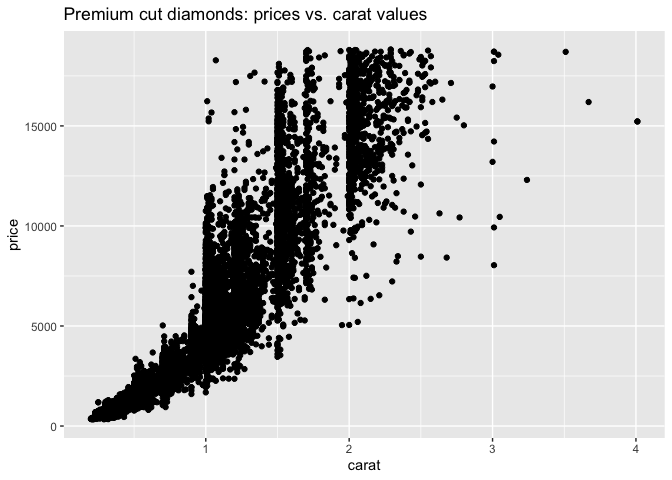
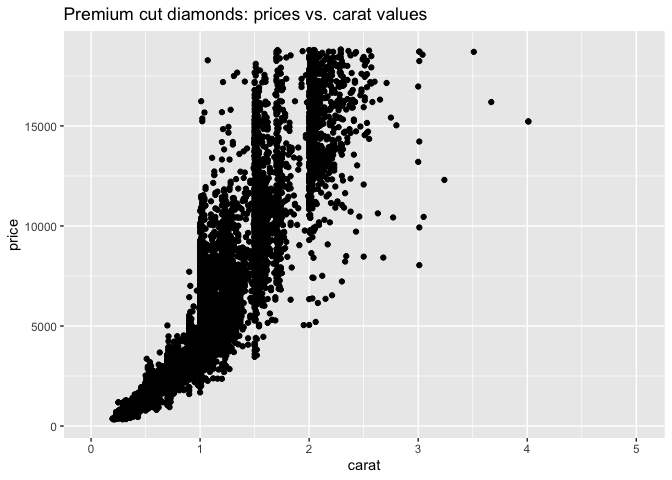
Diamonds challenge 1.2

diff --git a/c00-diamonds-assignment.md b/c00-diamonds-assignment.md
@@ -154,8 +154,10 @@ But now,
     lower-carat diamonds, and poorer quality cuts dominate the
     higher-carat diamonds.
 
-Additionally, I have questions\! First, am I correct that there is
-clustering around integer carat values, and around 1.5 carats?
+Additionally, I have questions\!
+
+**First, am I correct that there is clustering around integer carat
+values, and around 1.5 carats?**
 
 ``` r
 carat_vector <- diamonds$carat
@@ -164,12 +166,15 @@ hist(x = carat_vector, breaks = 20)
 
 ![](c00-diamonds-assignment_files/figure-gfm/unnamed-chunk-1-1.png)<!-- -->
 
-  - This confirms my suspicion about the clustering of diamonds around
-    carat values of 1, 1.5, and 2, but the resolution is a bit low (and
-    I may not be doing my histogram correctly, but I can’t seem to get
-    more than 4 breaks per carat here).
+**Observations**:
 
-Are there other clusters in the lower-carat value diamonds?
+  - This confirms my suspicion about the clustering of diamonds around
+    carat values of 1, 1.5, and 2.
+  - However, the resolution is a bit low (and I may not be doing my
+    histogram correctly, but I can’t seem to get more than 4 breaks per
+    carat here)…
+
+**Are there other clusters in the lower-carat value diamonds?**
 
 ``` r
 diamonds_up_to_2 <- filter(diamonds, carat <= 2)
@@ -187,6 +192,8 @@ ggplot(diamonds_up_to_2) +
 
 ![](c00-diamonds-assignment_files/figure-gfm/unnamed-chunk-2-2.png)<!-- -->
 
+**Observations**:
+
   - Yes, I think I am seeing multiple clusters when I look more closely
     at the lower-carat value diamonds. There is very clearly one around
     0.3 carats (I wonder if this is a good carat weight for e.g. pave
@@ -197,7 +204,7 @@ ggplot(diamonds_up_to_2) +
     would have expected a normal distribution, I think, not all these
     spikes.)
 
-Next, what’s happening above 2 carats?
+**Next, what’s happening above 2 carats?**
 
 ``` r
 diamonds_2plus <- filter(diamonds, carat >= 2)
@@ -218,6 +225,8 @@ hist(x = carat_vector_2_to_3, breaks = 20)
 
 ![](c00-diamonds-assignment_files/figure-gfm/unnamed-chunk-4-1.png)<!-- -->
 
+**Observations**:
+
   - In my histogram, I see the cluster of diamonds at 2 carats, and it
     looks like I do have a smallish cluster at 2.5, but this is so
     subtle as to perhaps be noise–the trend seems stronger in the 1-2
@@ -226,27 +235,25 @@ hist(x = carat_vector_2_to_3, breaks = 20)
     range of less than 2 carats, 1.5 is a substantial jump from 1, and
     thus feels more worthwhile…?
 
-**But what about cut?**
-
-If I filter the dataset by cut, do other patterns emerge?
+**But what about cut? If I filter the dataset by cut, do other patterns
+emerge?**
 
 ``` r
 ideal_diamonds <- filter(diamonds, cut == "Ideal")
 ggplot(ideal_diamonds) +
   geom_point(mapping = aes(x = carat, y = price)) +
-  labs(title = "Ideal cut diamonds: prices vs. carat values")+
-  xlim(0,5)
+  labs(title = "Ideal cut diamonds: prices vs. carat values") +
+  xlim(0,5.01)
 ```
 
 ![](c00-diamonds-assignment_files/figure-gfm/unnamed-chunk-5-1.png)<!-- -->
 
 ``` r
-# I don't know how to adjust the axis bounds here, and I wish I could make the x-axis extend to 4.5 or so for all of these; I just don't know how and have not yet bothered to look. :) 
-
 premium_diamonds <- filter(diamonds, cut == "Premium")
 ggplot(premium_diamonds) +
   geom_point(mapping = aes(x = carat, y = price)) +
-  labs(title = "Premium cut diamonds: prices vs. carat values")
+  labs(title = "Premium cut diamonds: prices vs. carat values") +
+  xlim(0,5.01)
 ```
 
 ![](c00-diamonds-assignment_files/figure-gfm/unnamed-chunk-5-2.png)<!-- -->
@@ -255,7 +262,8 @@ ggplot(premium_diamonds) +
 vgood_diamonds <- filter(diamonds, cut == "Very Good")
 ggplot(vgood_diamonds) +
   geom_point(mapping = aes(x = carat, y = price)) +
-  labs(title = "Very Good cut diamonds: prices vs. carat values")
+  labs(title = "Very Good cut diamonds: prices vs. carat values") +
+  xlim(0,5.01)
 ```
 
 ![](c00-diamonds-assignment_files/figure-gfm/unnamed-chunk-5-3.png)<!-- -->
@@ -264,7 +272,8 @@ ggplot(vgood_diamonds) +
 good_diamonds <- filter(diamonds, cut == "Good")
 ggplot(good_diamonds) +
   geom_point(mapping = aes(x = carat, y = price)) +
-  labs(title = "Good cut diamonds: prices vs. carat values")
+  labs(title = "Good cut diamonds: prices vs. carat values") +
+  xlim(0,5.01)
 ```
 
 ![](c00-diamonds-assignment_files/figure-gfm/unnamed-chunk-5-4.png)<!-- -->
@@ -273,7 +282,8 @@ ggplot(good_diamonds) +
 fair_diamonds <- filter(diamonds, cut == "Fair")
 ggplot(fair_diamonds) +
   geom_point(mapping = aes(x = carat, y = price)) +
-  labs(title = "Fair cut diamonds: prices vs. carat values")
+  labs(title = "Fair cut diamonds: prices vs. carat values") +
+  xlim(0,5.01)
 ```
 
 ![](c00-diamonds-assignment_files/figure-gfm/unnamed-chunk-5-5.png)<!-- -->
